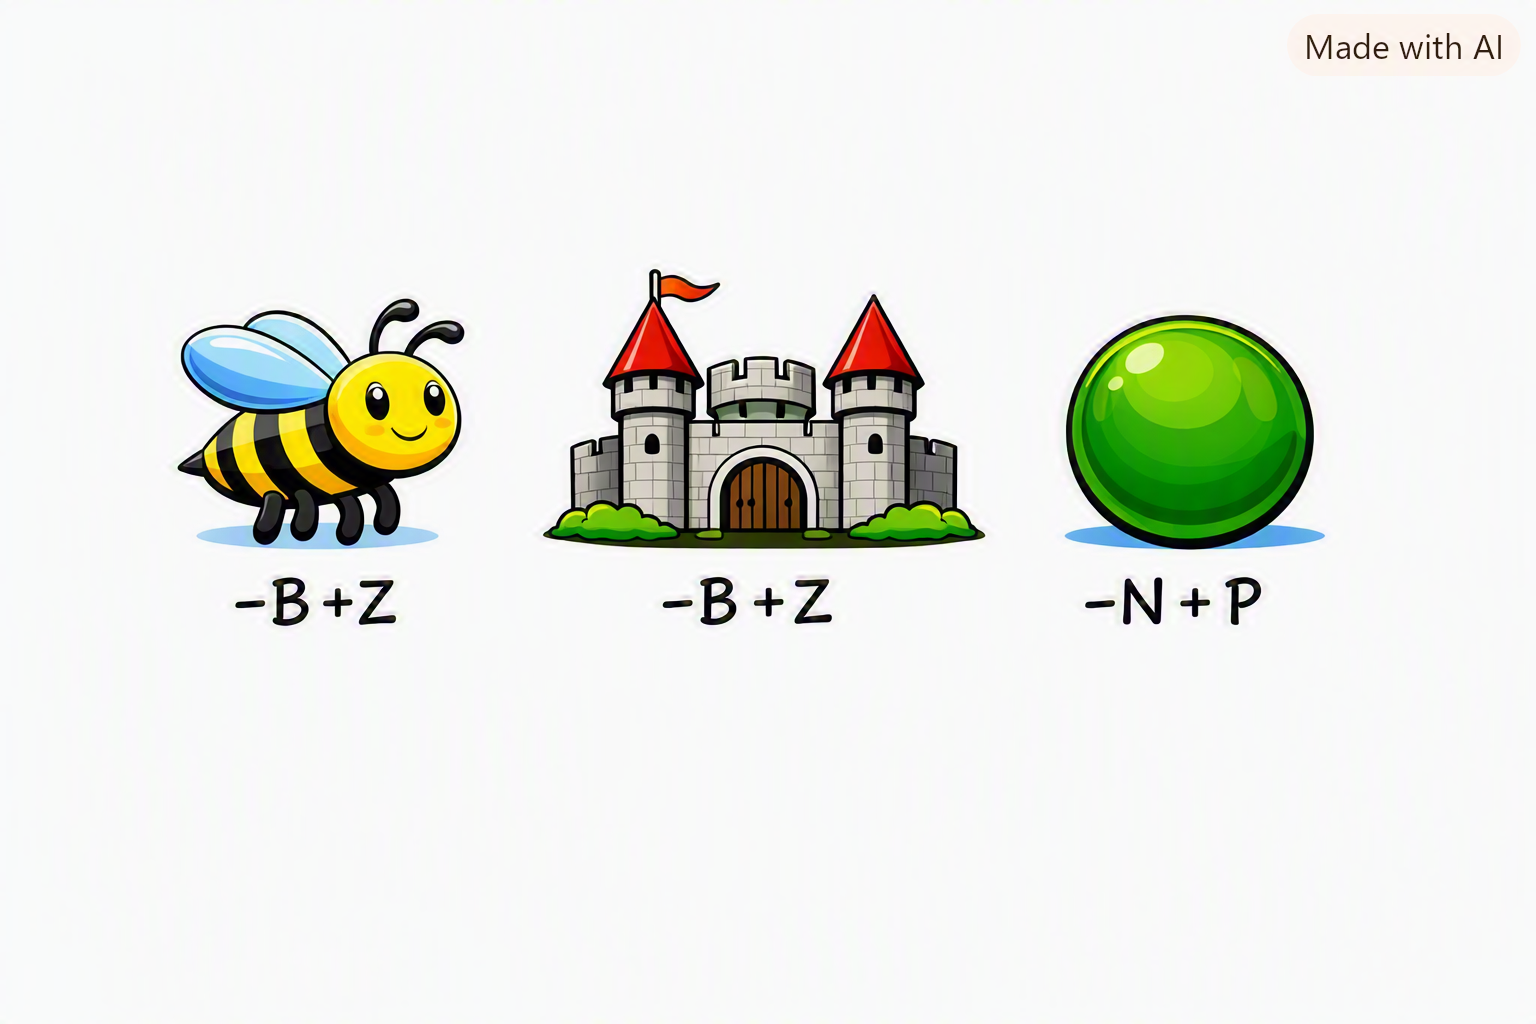
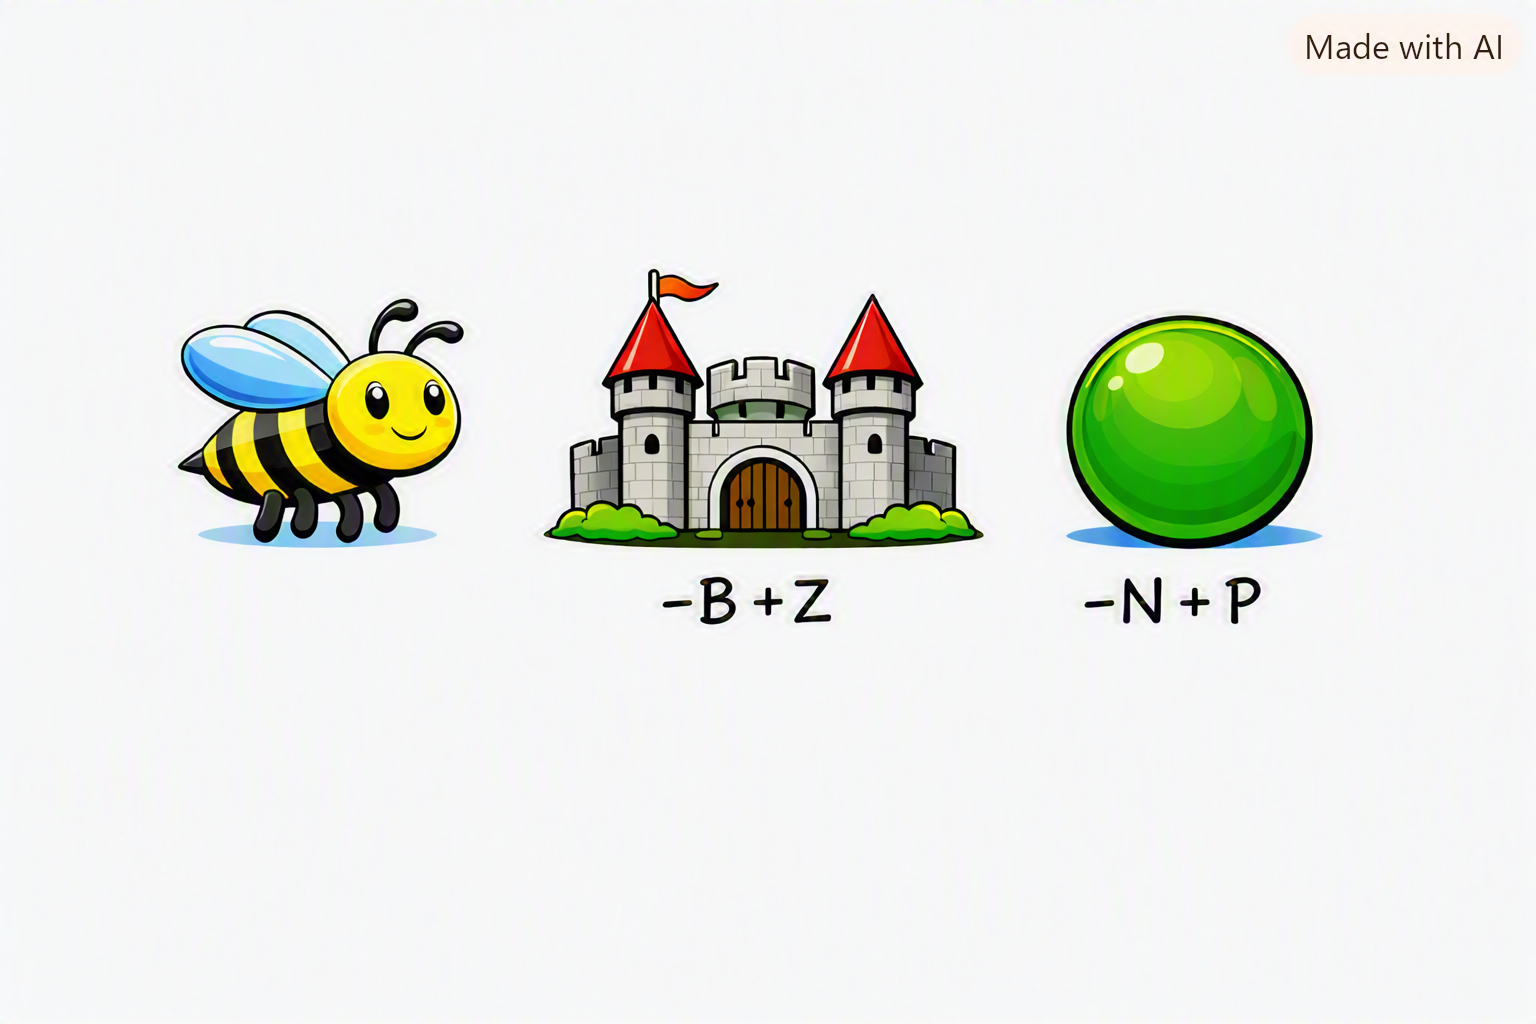
Werk puzzeltochtlocaties en kattenpuzzel bij

diff --git a/src/config/trail.js b/src/config/trail.js
@@ -24,16 +24,16 @@ export const WELCOME = {
     + "Vanaf dat moment hoef je de app niet continu open te hebben om batterij te besparen.\n"
     + "Onder het kompas staat hoe ver de locatie is. De afstand is vanaf het begin nauwkeurig. Wordt de afstand groter, dan lopen jullie de verkeerde kant op.\n"
     + "Hoe dichter jullie bij jullie doel zijn, hoe nauwkeuriger het kompas wordt.\n\n"
-    + "Opent de locatie niet of je komt niet uit de puzzel, dan kunnen jullie bij ons een noodcode opvragen om de opdracht te openen. Uiteraard gaat dit van je score af\n\n"
-    + "Veel plezier en succes! Maar denk aan je punten want die zijn belangrijk voor de eindscore.\n\n",
+    + "Opent de locatie niet of je komt niet uit de puzzel, dan kunnen jullie bij ons een noodcode opvragen om verder te komen. Uiteraard gaat dit van je score af\n\n"
+    + "Veel plezier en succes!\n\n",
   photo: `${import.meta.env.BASE_URL}logozga/zgalogo.png`,
 };
 
 export const STOPS = [
   {
     name: "Eerste stop!",
-    lat: 52.102581,
-    lng: 6.055958,
+    lat: 52.209131,
+    lng: 5.995918,
     arrivalRadius: 10,
     showCat: true,
     cheatCode: "r2e9",
@@ -55,12 +55,12 @@ export const STOPS = [
   },
   {
     name: "Tweede stop",
-    lat: 52.102113,
-    lng: 6.055814,
+    lat: 52.208635,
+    lng: 6.001995,
     arrivalRadius: 10,
     showCat: true,
     cheatCode: "c5h6",
-    arrivalMessage: "Beste puzzel wizzards\n\nWe gaan beginnen met de Porseleinen Pubquiz. En het wordt vreselijk spannend! Want om door te gaan naar de volgende stop, moeten jullie alle vragen goed beantwoorden. Dat kan nog wel eens tegenvallen. Maar wees gerust: hoe vaker jullie verkeerd antwoorden, hoe meer informatie jullie krijgen.\n\nMeedoen is leuker dan vastzitten, dus veel succes!",
+    arrivalMessage: "Beste puzzel wizzards\n\nWe gaan beginnen met de Porseleinen Pubquiz. En het wordt vreselijk spannend! Want om door te gaan naar de volgende stop, moeten jullie alle vragen goed beantwoorden. Dat kan nog wel eens tegenvallen. Maar wees gerust: hoe vaker jullie verkeerd antwoorden, hoe meer informatie jullie krijgen en punten dat het je kost.\n\nMeedoen is leuker dan vastzitten, dus veel succes!",
     puzzle: {
       type: "multi-choice",
       cheatCode: "c5h6",
@@ -101,12 +101,12 @@ export const STOPS = [
   }, 
   {
     name: "Derde stop",
-    lat: 52.101087,
-    lng: 6.055934,
+    lat: 52.208247,
+    lng: 6.010202,
     arrivalRadius: 10,
     showCat: true,
     cheatCode: "8ks4",
-    arrivalMessage: "Dierenweide Randerode!\n\nDe dierenweide van Randerode wie kent het niet. Jullie zijn daar nu niet maar hier gaat wel de vraag over. De ezels en geiten hebben ondertussen ook al een nieuw onderkomen gevonden vanwege de nieuwbouw plannen. maar de volgende vraag gaat hier wel over. \n\n"
+    arrivalMessage: "Dierenweide Randerode!\n\nDe dierenweide van Randerode wie kent het niet. Jullie zijn daar nu niet maar hier gaat wel de vraag over. De ezels en geiten hebben ondertussen ook al een nieuw onderkomen gevonden vanwege de nieuwbouw plannen.\n\n"
       + "Zet de foto's in de juiste volgorde. Begin met het grootste dier en eindig met de kleinste.\n"
       + "Je krijgt te zien hoeveel antwoorden je goed hebt.\n"
       + "Klik op de foto om te vergroten.Klik nog een keer om het weer te verkleinen.\n\n"
@@ -133,8 +133,8 @@ export const STOPS = [
   },
   {
     name: "Vierde stop",
-    lat: 52.102161,
-    lng: 6.056931,
+    lat: 52.204231,
+    lng: 6.007573,
     arrivalRadius: 10,
     showCat: true,
     cheatCode: "p3n7",
@@ -159,8 +159,8 @@ export const STOPS = [
   },
   {
     name: "Vijde stop",
-    lat: 52.102338,
-    lng: 6.057730,
+    lat: 52.205277,
+    lng: 6.000791,
     arrivalRadius: 10,
     showCat: true,
     cheatCode: "6fq2",
@@ -185,8 +185,8 @@ export const STOPS = [
   },
   {
     name: "Zesde stop",
-    lat: 52.102976,
-    lng: 6.056951,
+    lat: 52.209362,
+    lng: 5.995631,
     arrivalRadius: 10,
     showCat: true,
     cheatCode: "9mw5",
@@ -215,8 +215,8 @@ export const STOPS = [
   },
   {
     name: "Eindlocatie",
-    lat: 52.103114,
-    lng: 6.055947,
+    lat: 52.209828,
+    lng: 5.993025,
     arrivalRadius: 10,
     arrivalMessage: "Gefeliciteerd! Jullie hebben de puzzeltocht voltooid.",
     isFinal: true,
